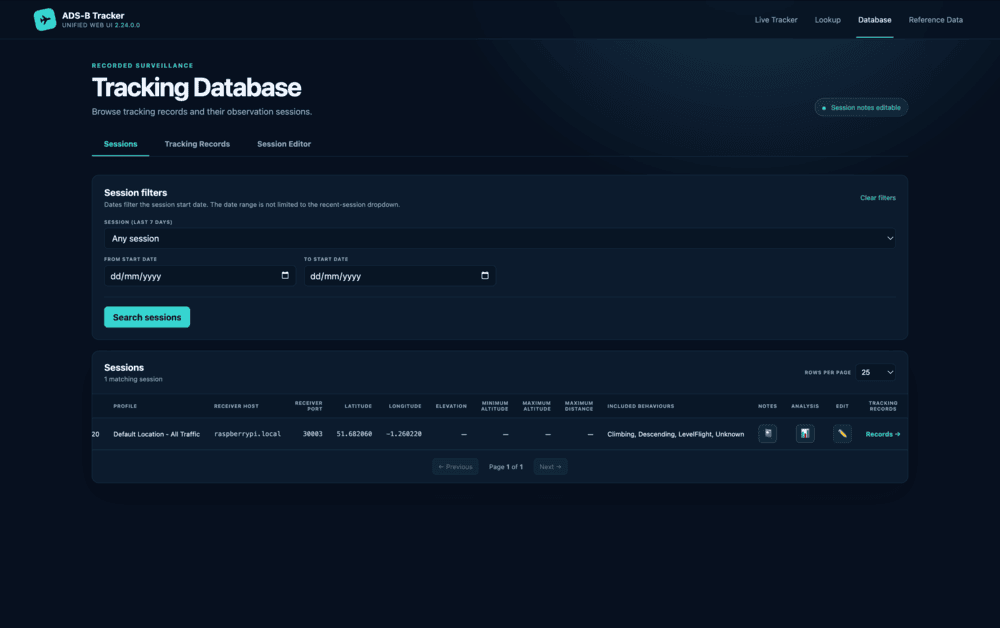
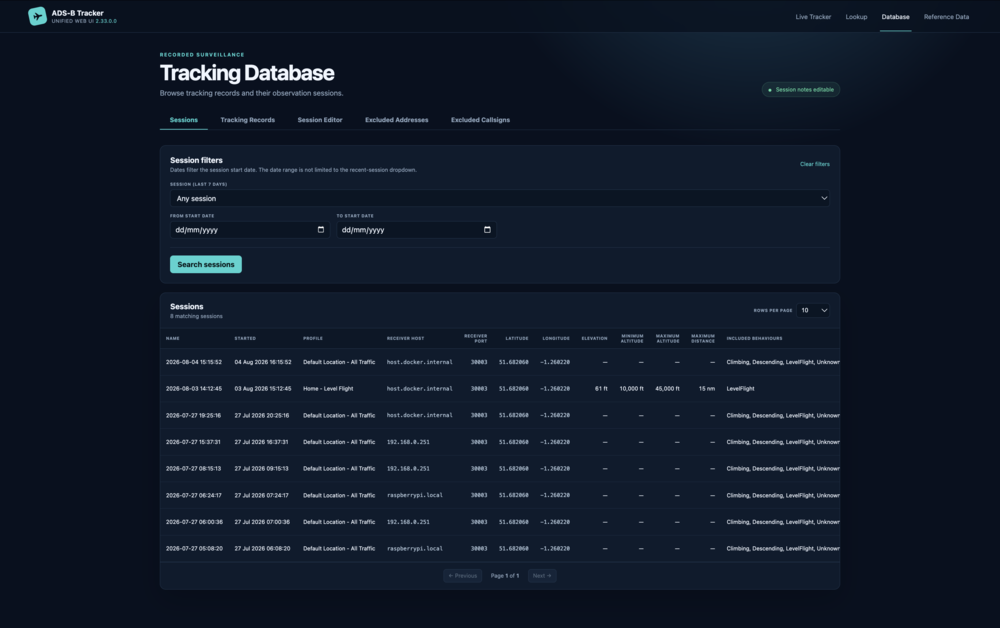
Added the excluded callsign management tab

diff --git a/src/BaseStationReader.TrackerHub/wwwroot/app.css b/src/BaseStationReader.TrackerHub/wwwroot/app.css
@@ -97,7 +97,7 @@ h1:focus, h1:focus-visible { outline: none !important; box-shadow: none; }
 .session-delete-button { display: inline-grid; place-items: center; width: 34px; height: 34px; padding: 0; color: #ff9c9c; background: rgba(255,92,92,.06); border: 1px solid rgba(255,92,92,.35); border-radius: 7px; cursor: pointer; font-size: 16px; }
 .session-delete-button:hover:not(:disabled) { background: rgba(255,92,92,.14); border-color: #ff9c9c; }
 .session-delete-button:disabled { filter: grayscale(1); opacity: .28; cursor: not-allowed; }
-.excluded-address-delete-heading, .excluded-address-delete-action { width: 100px; text-align: center; }
+.exclusion-delete-heading, .exclusion-delete-action { width: 100px; text-align: center; }
 .session-editor { margin-top: 28px; }
 .session-editor-alert { margin-top: 28px; }
 .modal-backdrop { position: fixed; z-index: 1000; inset: 0; display: grid; place-items: center; padding: 20px; background: rgba(2,8,15,.78); backdrop-filter: blur(5px); }
@@ -237,7 +237,7 @@ tbody tr.stale { background: rgba(255,113,134,.045); }
 .filter-heading p { margin: 4px 0 0; color: var(--muted); font-size: 12px; }
 .filter-grid { display: grid; grid-template-columns: repeat(4, minmax(0, 1fr)); gap: 14px; margin-top: 20px; }
 .filter-grid-full-row { grid-column: 1 / -1; }
-.excluded-address-filter-grid { grid-template-columns: minmax(240px, 420px); }
+.exclusion-filter-grid { grid-template-columns: minmax(240px, 420px); }
 .filter-grid label > span, .page-size span { display: block; margin-bottom: 6px; color: var(--muted); font-size: 9px; font-weight: 700; text-transform: uppercase; letter-spacing: .07em; }
 .filter-grid input, .filter-grid select, .page-size select { width: 100%; min-height: 38px; padding: 8px 10px; color: var(--text); background: #081524; border: 1px solid var(--line); border-radius: 7px; outline: none; }
 .filter-grid select { height: 38px; font: inherit; line-height: normal; }

diff --git a/src/BaseStationReader.BusinessLogic/Database/ExcludedCallsignManager.cs b/src/BaseStationReader.BusinessLogic/Database/ExcludedCallsignManager.cs
@@ -1,4 +1,5 @@
-using System.Diagnostics.CodeAnalysis;
+#nullable enable
+
 using System.Linq.Expressions;
 using BaseStationReader.Data;
 using BaseStationReader.Entities.Api;
@@ -7,14 +8,30 @@ using Microsoft.EntityFrameworkCore;
 
 namespace BaseStationReader.BusinessLogic.Database
 {
-    [ExcludeFromCodeCoverage]
-    internal class ExcludedCallsignManager : IExcludedCallsignManager
+    internal sealed class ExcludedCallsignManager : IExcludedCallsignManager
     {
         private readonly BaseStationReaderDbContext _context;
 
         public ExcludedCallsignManager(BaseStationReaderDbContext context)
         {
             _context = context;
+        }
+
+        /// <inheritdoc />
+        public async Task<IReadOnlyList<ExcludedCallsign>> SearchAsync(
+            string? callsign,
+            CancellationToken cancellationToken = default)
+        {
+            var normalisedCallsign = callsign?.Trim().ToUpperInvariant() ?? string.Empty;
+            IQueryable<ExcludedCallsign> query = _context.ExcludedCallsigns.AsNoTracking();
+            if (normalisedCallsign.Length > 0)
+            {
+                query = query.Where(exclusion => exclusion.Callsign.Contains(normalisedCallsign));
+            }
+
+            return await query
+                .OrderBy(exclusion => exclusion.Callsign)
+                .ToListAsync(cancellationToken);
         }
 
         /// <summary>
@@ -73,15 +90,16 @@ namespace BaseStationReader.BusinessLogic.Database
         /// </summary>
         /// <param name="callsign"></param>
         /// <returns></returns>
-        public async Task DeleteAsync(string callsign)
+        public async Task DeleteAsync(string callsign, CancellationToken cancellationToken = default)
         {
             // Find the exclusion record
-            var exclusion = await _context.ExcludedCallsigns.FirstOrDefaultAsync(x => x.Callsign == callsign);
+            var exclusion = await _context.ExcludedCallsigns
+                .FirstOrDefaultAsync(x => x.Callsign == callsign, cancellationToken);
             if (exclusion != null)
             {
                 // Found one, so remove it
                 _context.Remove(exclusion);
-                await _context.SaveChangesAsync();
+                await _context.SaveChangesAsync(cancellationToken);
             }
         }
     }

diff --git a/src/BaseStationReader.TrackerHub/Services/ExcludedCallsignService.cs b/src/BaseStationReader.TrackerHub/Services/ExcludedCallsignService.cs
@@ -1,0 +1,49 @@
+#nullable enable
+
+using BaseStationReader.BusinessLogic.Database;
+using BaseStationReader.Data;
+using BaseStationReader.Entities.Api;
+using BaseStationReader.Interfaces.Logging;
+using Microsoft.EntityFrameworkCore;
+
+namespace BaseStationReader.TrackerHub.Services;
+
+/// <summary>
+/// Creates short-lived database managers for excluded-callsign UI operations.
+/// </summary>
+public sealed class ExcludedCallsignService : IExcludedCallsignService
+{
+    private readonly IDbContextFactory<BaseStationReaderDbContext> _contextFactory;
+    private readonly ITrackerLogger _logger;
+
+    /// <summary>
+    /// Initialises a new excluded-callsign service.
+    /// </summary>
+    /// <param name="contextFactory">The database context factory.</param>
+    /// <param name="logger">The application logger.</param>
+    public ExcludedCallsignService(
+        IDbContextFactory<BaseStationReaderDbContext> contextFactory,
+        ITrackerLogger logger)
+    {
+        _contextFactory = contextFactory;
+        _logger = logger;
+    }
+
+    /// <inheritdoc />
+    public async Task<IReadOnlyList<ExcludedCallsign>> SearchAsync(
+        string? callsign,
+        CancellationToken cancellationToken = default)
+    {
+        await using var context = await _contextFactory.CreateDbContextAsync(cancellationToken);
+        var manager = new DatabaseManagementFactory(_logger, context, 0).ExcludedCallsignManager;
+        return await manager.SearchAsync(callsign, cancellationToken);
+    }
+
+    /// <inheritdoc />
+    public async Task DeleteAsync(string callsign, CancellationToken cancellationToken = default)
+    {
+        await using var context = await _contextFactory.CreateDbContextAsync(cancellationToken);
+        var manager = new DatabaseManagementFactory(_logger, context, 0).ExcludedCallsignManager;
+        await manager.DeleteAsync(callsign, cancellationToken);
+    }
+}

diff --git a/src/BaseStationReader.Interfaces/Database/IExcludedCallsignManager.cs b/src/BaseStationReader.Interfaces/Database/IExcludedCallsignManager.cs
@@ -1,3 +1,5 @@
+#nullable enable
+
 using System.Linq.Expressions;
 using BaseStationReader.Entities.Api;
 
@@ -5,9 +7,19 @@ namespace BaseStationReader.Interfaces.Database
 {
     public interface IExcludedCallsignManager
     {
+        /// <summary>
+        /// Searches excluded flight callsigns.
+        /// </summary>
+        /// <param name="callsign">An optional full or partial callsign.</param>
+        /// <param name="cancellationToken">A token used to cancel the database operation.</param>
+        /// <returns>The matching exclusions ordered by callsign.</returns>
+        Task<IReadOnlyList<ExcludedCallsign>> SearchAsync(
+            string? callsign,
+            CancellationToken cancellationToken = default);
+
         Task<bool> IsExcludedAsync(string callsign);
         Task<List<ExcludedCallsign>> ListAsync(Expression<Func<ExcludedCallsign, bool>> predicate);
         Task<ExcludedCallsign> AddAsync(string callsign);
-        Task DeleteAsync(string callsign);
+        Task DeleteAsync(string callsign, CancellationToken cancellationToken = default);
     }
 }

diff --git a/src/BaseStationReader.Tests/Database/ExcludedCallsignManagerTest.cs b/src/BaseStationReader.Tests/Database/ExcludedCallsignManagerTest.cs
@@ -52,6 +52,31 @@ namespace BaseStationReader.Tests.Database
         }
 
         [TestMethod]
+        public async Task SearchNormalisesPartialCallsignAndOrdersResultsTestAsync()
+        {
+            await _manager.AddAsync("BAW999");
+            await _manager.AddAsync("BAW123");
+            await _manager.AddAsync("EZY123");
+
+            var exclusions = await _manager.SearchAsync(" baw ");
+
+            Assert.HasCount(2, exclusions);
+            Assert.AreEqual("BAW123", exclusions[0].Callsign);
+            Assert.AreEqual("BAW999", exclusions[1].Callsign);
+        }
+
+        [TestMethod]
+        public async Task SearchWithoutCallsignReturnsAllTestAsync()
+        {
+            await _manager.AddAsync(Callsign);
+
+            var exclusions = await _manager.SearchAsync(null);
+
+            Assert.HasCount(1, exclusions);
+            Assert.AreEqual(Callsign, exclusions[0].Callsign);
+        }
+
+        [TestMethod]
         public async Task DeleteTestAsync()
         {
             await _manager.AddAsync(Callsign);

diff --git a/src/BaseStationReader.TrackerHub/Services/IExcludedCallsignService.cs b/src/BaseStationReader.TrackerHub/Services/IExcludedCallsignService.cs
@@ -1,0 +1,28 @@
+#nullable enable
+
+using BaseStationReader.Entities.Api;
+
+namespace BaseStationReader.TrackerHub.Services;
+
+/// <summary>
+/// Provides excluded-callsign operations to the Tracker Hub UI.
+/// </summary>
+public interface IExcludedCallsignService
+{
+    /// <summary>
+    /// Searches excluded flight callsigns.
+    /// </summary>
+    /// <param name="callsign">An optional full or partial callsign.</param>
+    /// <param name="cancellationToken">A token used to cancel the operation.</param>
+    /// <returns>The matching exclusions.</returns>
+    Task<IReadOnlyList<ExcludedCallsign>> SearchAsync(
+        string? callsign,
+        CancellationToken cancellationToken = default);
+
+    /// <summary>
+    /// Removes a callsign from the exclusion table.
+    /// </summary>
+    /// <param name="callsign">The callsign to remove.</param>
+    /// <param name="cancellationToken">A token used to cancel the operation.</param>
+    Task DeleteAsync(string callsign, CancellationToken cancellationToken = default);
+}

diff --git a/src/BaseStationReader.TrackerHub/Program.cs b/src/BaseStationReader.TrackerHub/Program.cs
@@ -188,6 +188,7 @@ namespace BaseStationReader.TrackerHub
                 builder.Services.AddScoped<IReferenceLookupService, ReferenceLookupService>();
                 builder.Services.AddScoped<IApiLogService, ApiLogService>();
                 builder.Services.AddScoped<IExcludedAddressService, ExcludedAddressService>();
+                builder.Services.AddScoped<IExcludedCallsignService, ExcludedCallsignService>();
                 builder.Services.AddSingleton<IDataImportService, DataImportService>();
                 builder.Services.AddScoped<IProvenanceService, ProvenanceService>();
                 builder.Services.AddScoped<IAircraftReferenceService, AircraftReferenceService>();
